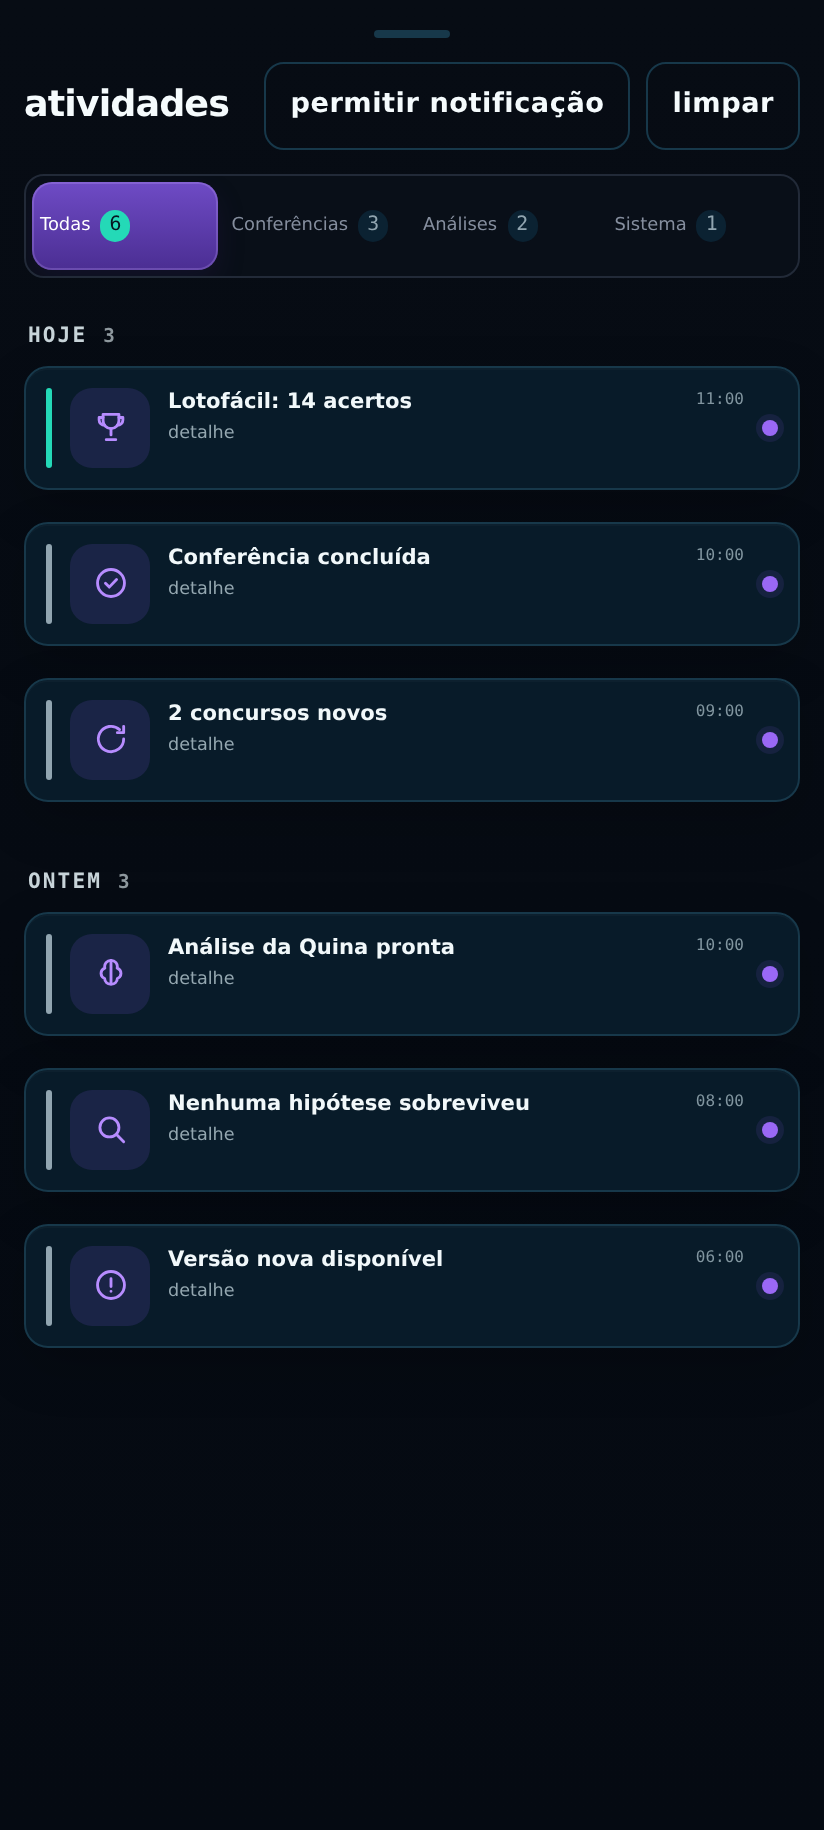
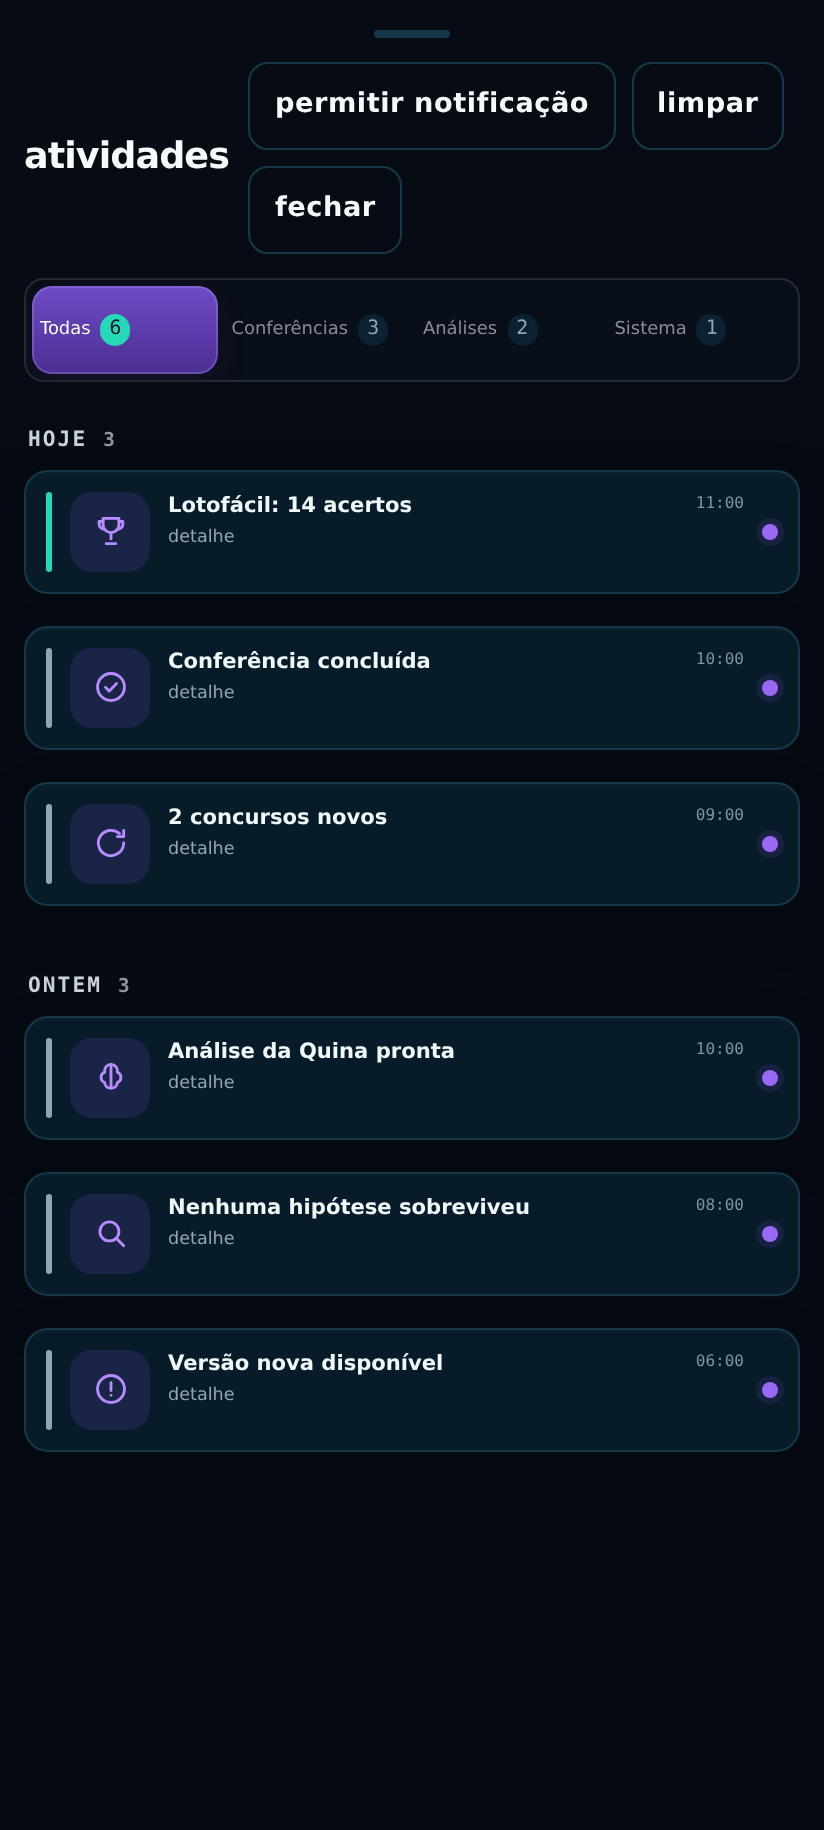
fix: o sorteio de ontem não entrava, e não havia como sair das atividades
Dois defeitos relatados por quem usa, os dois reproduzidos antes de mexer.

1. "NÃO VEJO O SORTEIO DE HOJE"

O log do cron de 23/08 diz tudo: "mega-sena: +0 novos (último 3047 via caixa)",
"0 concursos novos, 0 modalidades falharam" — enquanto o próprio registro do
3047 anuncia o 3048 para o dia 22. Nenhuma fonte falhou. Nada ficou vermelho.

A causa: o laço de atualização só preenchia para TRÁS, a partir do que a fonte
chamou de último. Quando o endpoint "sem número" fica preso num concurso já
conhecido — e ele fica; foi o mesmo sintoma que me obrigou a acrescentar a
segunda fonte —, não havia nada olhando adiante.

O endpoint POR NÚMERO responde normalmente: o backfill de rateio faz vinte
chamadas por modalidade a cada execução, todas bem-sucedidas. Então agora uma
sonda pergunta pelos próximos concursos, um a um, e para no primeiro que não
existir. Ela também confere que o número devolvido é o pedido, porque a Caixa
responde com o último quando perguntam por um que não existe — sem essa
conferência a sonda regravaria o mesmo concurso achando que avançou.

Isto explica também "a conferência não funciona" e "não recebo notificação":
sem concurso novo não há o que comparar, e sem comparação não há aviso. A
conferência estava certa; faltava dado.

De passagem, retiro uma acusação que fiz cedo demais: o commit diário do cron
NÃO é cosmético. Medido, ele acrescenta exatamente vinte rateios por
modalidade — é o backfill trabalhando dentro do orçamento.
[…]

diff --git a/index.html b/index.html
@@ -4365,6 +4365,15 @@ function pintarAvisos(){
         ${perm === "granted" ? "" :
           `<button class="acao contorno mini" id="a-permitir">permitir notificação</button>`}
         ${S.avisos.length ? `<button class="acao contorno mini" id="a-limpar">limpar</button>` : ""}
+        ${/* Fechar VISÍVEL. A gaveta sempre teve o dela; esta folha só tinha o
+             fundo clicável — a faixa escura acima do painel. Quem abria as
+             atividades ficava sem saída aparente: no navegador não há botão de
+             voltar do sistema, e ninguém adivinha que precisa tocar no escuro.
+             Foi relatado exatamente assim: "vou nas notificações e não consigo
+             voltar". O tratador de [data-fechar] já existia e já marca os
+             avisos como lidos; faltava a porta. */""}
+        <button class="acao contorno mini" data-fechar="1"
+          aria-label="Fechar atividades">fechar</button>
       </div></div>`;
   /* Os chips levam a contagem. "Análises" sem número obriga a tocar para
      descobrir que está vazio; com número, a pessoa já sabe antes de tocar. */

diff --git a/www/index.html b/www/index.html
@@ -4365,6 +4365,15 @@ function pintarAvisos(){
         ${perm === "granted" ? "" :
           `<button class="acao contorno mini" id="a-permitir">permitir notificação</button>`}
         ${S.avisos.length ? `<button class="acao contorno mini" id="a-limpar">limpar</button>` : ""}
+        ${/* Fechar VISÍVEL. A gaveta sempre teve o dela; esta folha só tinha o
+             fundo clicável — a faixa escura acima do painel. Quem abria as
+             atividades ficava sem saída aparente: no navegador não há botão de
+             voltar do sistema, e ninguém adivinha que precisa tocar no escuro.
+             Foi relatado exatamente assim: "vou nas notificações e não consigo
+             voltar". O tratador de [data-fechar] já existia e já marca os
+             avisos como lidos; faltava a porta. */""}
+        <button class="acao contorno mini" data-fechar="1"
+          aria-label="Fechar atividades">fechar</button>
       </div></div>`;
   /* Os chips levam a contagem. "Análises" sem número obriga a tocar para
      descobrir que está vazio; com número, a pessoa já sabe antes de tocar. */
